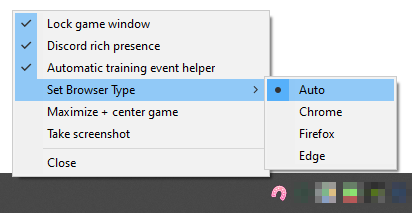
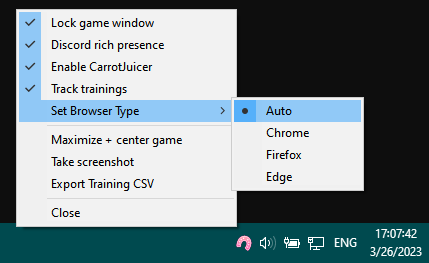
Update Readme + Separator added to tray menu.

diff --git a/umatray.py b/umatray.py
@@ -33,6 +33,7 @@ class UmaTray():
                 )
             )
         )
+        menu_items.append(pystray.Menu.SEPARATOR)
         menu_items.append(pystray.MenuItem("Maximize + center game", self.threader.windowmover.try_maximize))
         menu_items.append(pystray.MenuItem("Take screenshot", self.threader.screenstate.screenshot_to_clipboard))
         menu_items.append(pystray.MenuItem("Export Training CSV", lambda: training_tracker.training_csv_dialog()))

diff --git a/readme.md b/readme.md
@@ -1,42 +1,64 @@
 # Uma Launcher
 Software that enhances the Uma Musume (DMM Version) experience.
 
-## Requirements (Optional)
+## Requirements (Optional but recommended)
 - [EXNOA-CarrotJuicer](https://github.com/CNA-Bld/EXNOA-CarrotJuicer)
+  - Download the latest version: [![Latest release](https://img.shields.io/github/v/release/CNA-Bld/EXNOA-CarrotJuicer)](https://github.com/CNA-Bld/EXNOA-CarrotJuicer/releases/latest)
   - Make sure CarrotJuicer's `version.dll` is located in the same directory as `umamusume.exe`.
-  - While optional, CarrotJuicer allows Uma Launcher to extract information from the network packets the game sends/receives. This information is necessary to determine the current status of the game for the automatic training event helper and Discord rich presence.
+  - While optional, CarrotJuicer allows Uma Launcher to extract information from the network packets the game sends/receives. This information is necessary to determine the current status of the game, and needed for most of the features of Uma Launcher to work.
+
+## Download
+First, read the requirements above. Then download the latest version:
+
+[![Latest release](https://img.shields.io/github/v/release/KevinVG207/UmaLauncher)](https://github.com/KevinVG207/UmaLauncher/releases/latest)
 
 ## Usage
 Download the latest release's `UmaLauncher.exe` and run it.
 
-(When downloading a newer version, you may overwrite the existing .exe)
-
 On first launch or when you change the game's location, you may be asked to select the installation location for the game if you are not using the default location.
+
+When a new version of Uma Launcher is available, you will be notified on startup. You may choose to update, or postpone the update temporarily or permanently.
 
 ## Features
 ### Launch Uma Musume simply by running one file
 - The program automatically launches the game through DMM and closes it without needing any extra interaction.
-  - Exceptions are logging into DMM and confirming game updates. (Updates might be automated in the future.)
+  - Exceptions are: Logging into DMM and confirming game updates.
 - The script will ask for administrator privileges to interact with the Uma Musume window.
 ### Better Discord rich presence for Uma Musume
 ![An example of the training rich presence.](assets/rich-presence.png)
+
+*An example of the training rich presence.*
 - Shows which home screen you're on.
 - Shows training and concert details extracted from the game's packets. **(CarrotJuicer required)**
-- (Still work-in-progress and only works if nothing is above the game window.)
+- (Still work-in-progress.)
 ### Automatic GameTora training event helper
 **(CarrotJuicer required)**
 
 ![An example of the automatic training event helper scrolling to the training event.](assets/event-helper.gif)
+
+*An example of the automatic training event helper scrolling to the training event.*
 - Automatically start a browser window with the current trained character and support cards.
 - Automatically selects and scrolls to event choices when needed.
+- Supports Edge, Chrome and Firefox browsers.
+### Inspect your training runs
+**(CarrotJuicer required)**
+
+![An example of the training run CSV, imported into Excel. (Only a subset of columns is shown.)](assets/training-csv-excel.png)
+
+*An example of the training run CSV, imported into Excel. (Only a subset of columns is shown.)*
+- With the 'Track trainings' setting enabled, your training runs will be saved as a gzip file in the `training_logs` folder. This folder will be automatically created next to the exe.
+- Use the 'Export Training CSV' option in the tray icon menu to export the training logs to a CSV file.
+- CSVs can be generated without launching the exe by dragging and dropping logs from the `training_logs` folder onto the exe.
+- (Documentation for the CSV format will be added later.)
 ### Quality-of-life features
 ![An image showing the different settings in the tray icon.](assets/tray-icon.png)
+
+*An image showing the different settings in the tray icon.*
 - Various options to enable/disable during gameplay by right-clicking the horse shoe icon in the system tray/taskbar:
   - Locking and remembering the game window position for portrait and landscape mode separately.
     - This also includes the automatic training event helper.
   - Automatically resizing the game to the largest possible size on your screen.
   - Take screenshots.
-  - Change the browser that opens with the automatic training event helper.
 
 ## Disclaimer
 Uma Launcher is in no way associated with Uma Musume, Cygames or DMM.  
@@ -47,24 +69,4 @@ It is the developer's belief that this tool is harmless to the above companies a
 This code is available under the GNU GPLv3 license.
 
 ## Credits
-Hakuraku Race Scenario Data Parser
-MIT License
-Copyright (c) 2021 SSHZ.ORG
-
-Permission is hereby granted, free of charge, to any person obtaining a copy
-of this software and associated documentation files (the "Software"), to deal
-in the Software without restriction, including without limitation the rights
-to use, copy, modify, merge, publish, distribute, sublicense, and/or sell
-copies of the Software, and to permit persons to whom the Software is
-furnished to do so, subject to the following conditions:
-
-The above copyright notice and this permission notice shall be included in all
-copies or substantial portions of the Software.
-
-THE SOFTWARE IS PROVIDED "AS IS", WITHOUT WARRANTY OF ANY KIND, EXPRESS OR
-IMPLIED, INCLUDING BUT NOT LIMITED TO THE WARRANTIES OF MERCHANTABILITY,
-FITNESS FOR A PARTICULAR PURPOSE AND NONINFRINGEMENT. IN NO EVENT SHALL THE
-AUTHORS OR COPYRIGHT HOLDERS BE LIABLE FOR ANY CLAIM, DAMAGES OR OTHER
-LIABILITY, WHETHER IN AN ACTION OF CONTRACT, TORT OR OTHERWISE, ARISING FROM,
-OUT OF OR IN CONNECTION WITH THE SOFTWARE OR THE USE OR OTHER DEALINGS IN THE
-SOFTWARE.
+Credits for included libraries can be found in the [credits file](CREDITS.txt).
